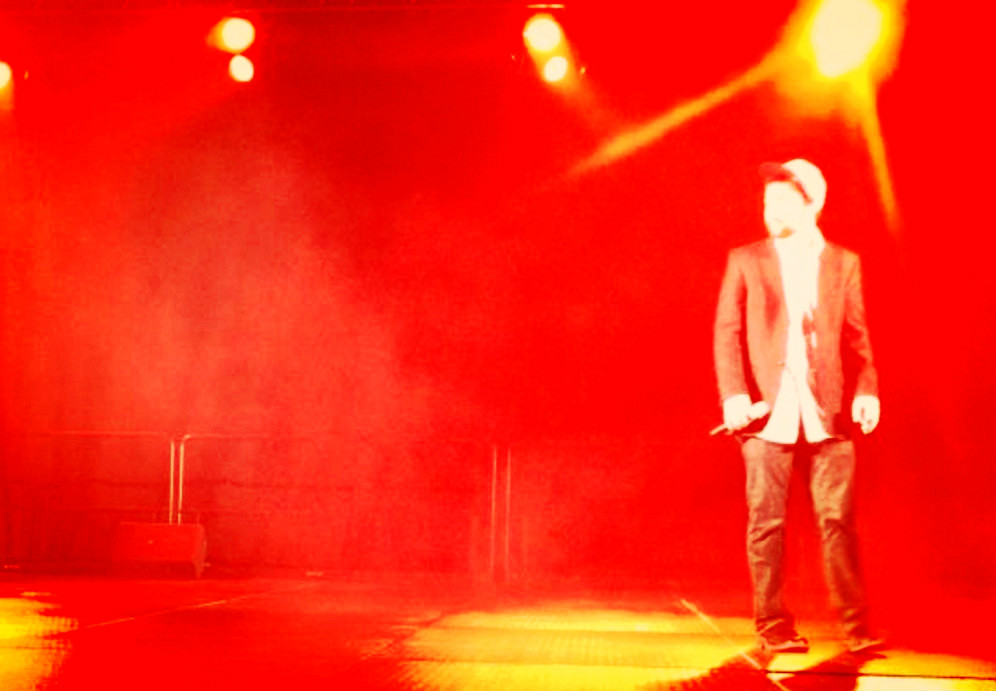
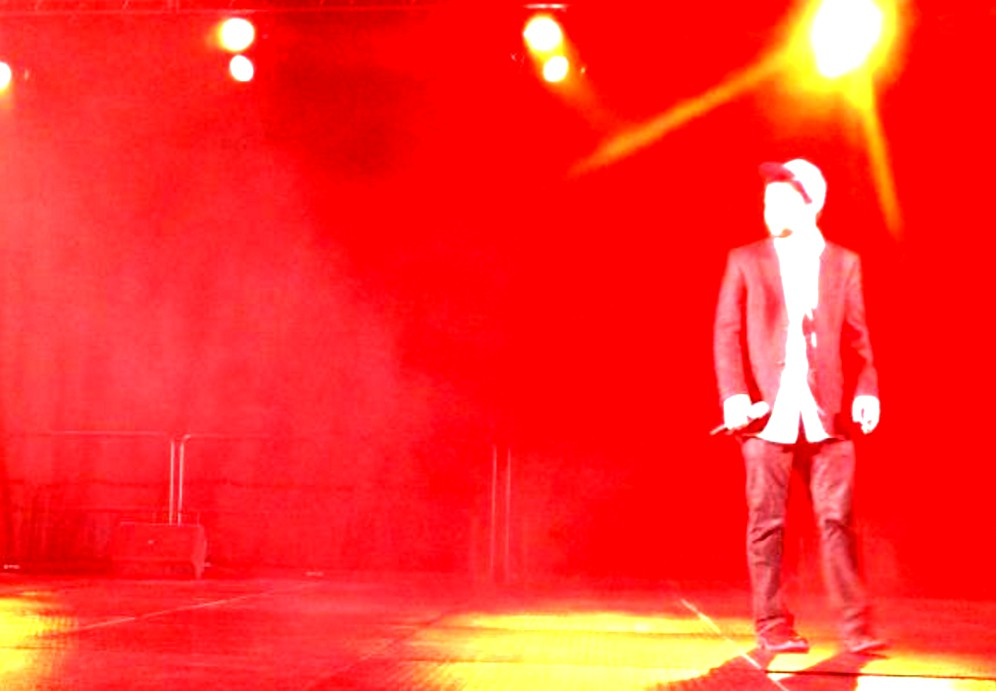
updated images

diff --git a/stylesheets/main.css b/stylesheets/main.css
@@ -151,7 +151,7 @@ nav ul li {
 }
 
 #main #bio {
-    background: url(../images/banner-img.png) center right/cover no-repeat #272D35;
+    background: url(../images/banner-img2.jpg) top/cover no-repeat;
     color: #fff;
     display: block;
     position: relative;
